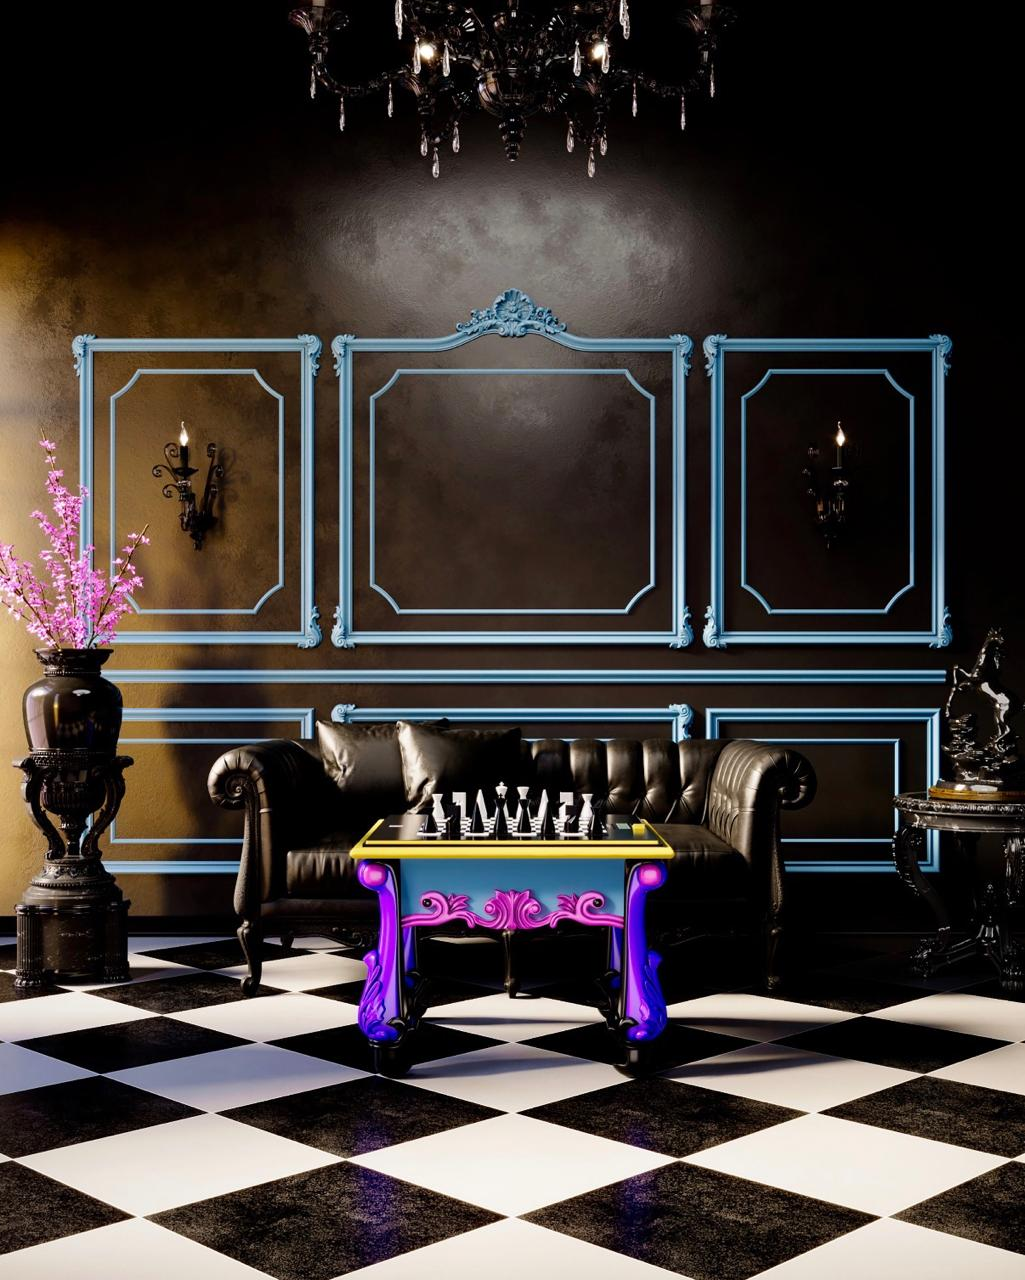
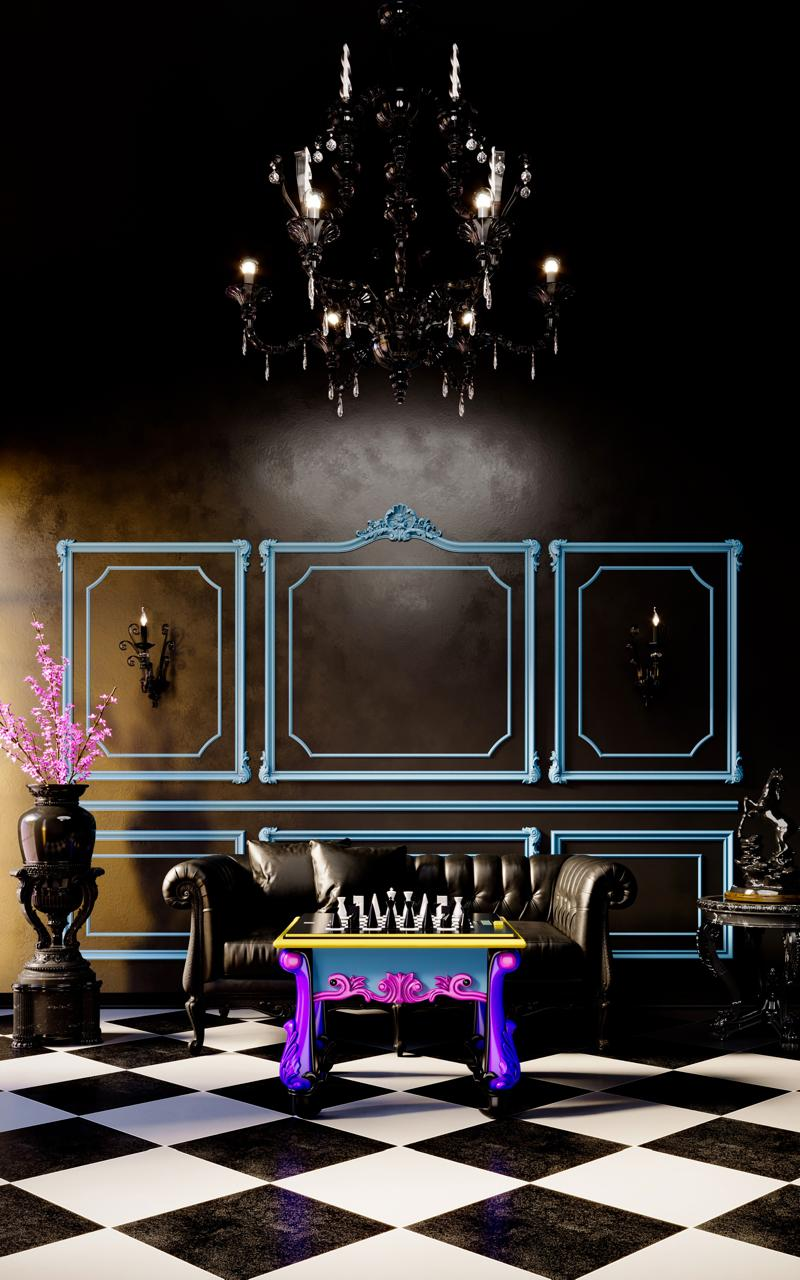
Improve mobile images

diff --git a/css/styles.css b/css/styles.css
@@ -408,6 +408,10 @@ h3{
   filter:saturate(1.05) contrast(1.05);
 }
 
+.image-grid a:nth-child(3) .thumb-img{
+  object-position:center 2%;
+}
+
 .image-grid article:hover .thumb-img{
   transform:scale(1.03);
   filter:brightness(1.08);
@@ -428,7 +432,7 @@ h3{
 }
 
 #collections .project-card:nth-child(3) .project-img{
-  object-position:left center;
+  object-position:center 78%;
 }
 
 .project-img{
@@ -970,6 +974,8 @@ h3{
     width:100%;
     margin:0;
   }
+
+  
 
   .nav{
     border-radius:0;
